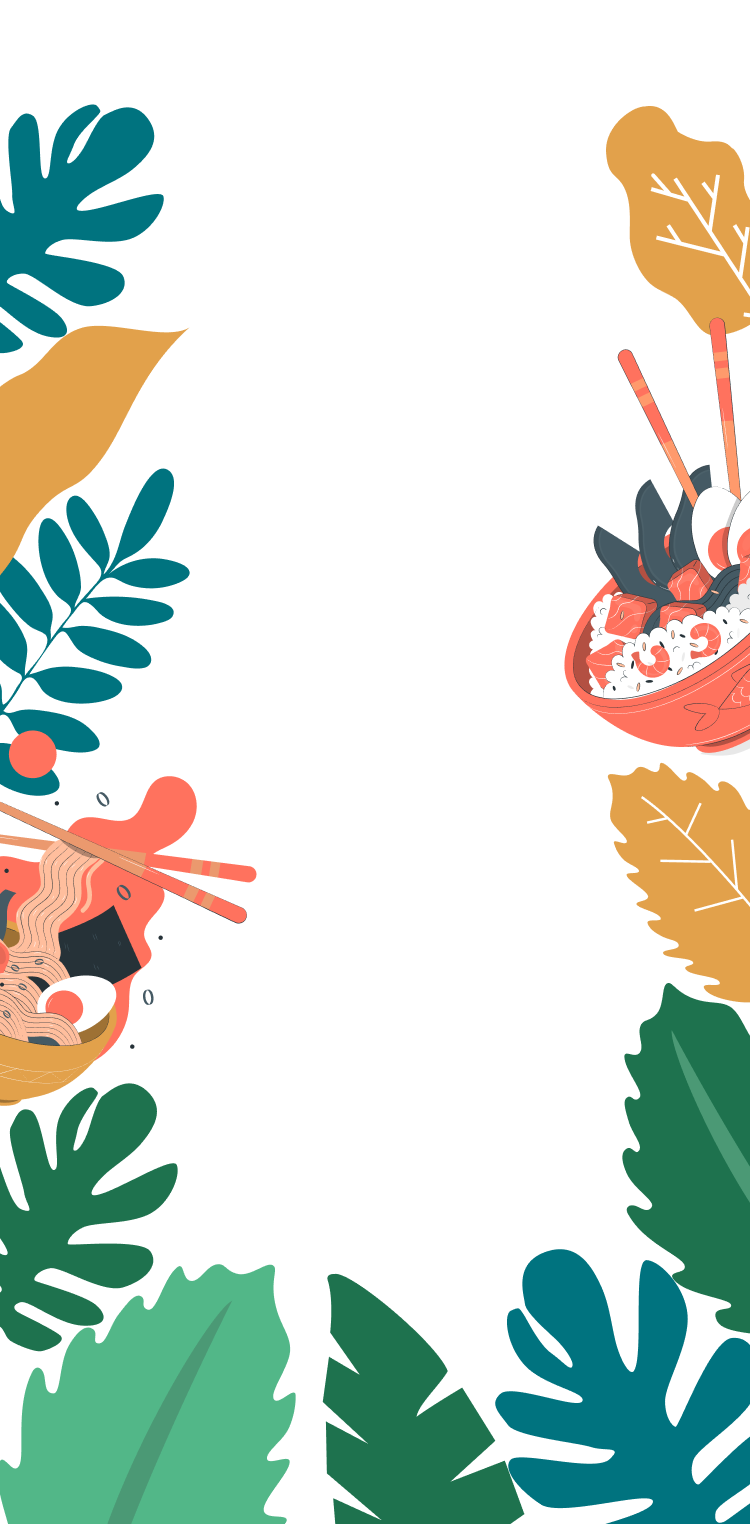
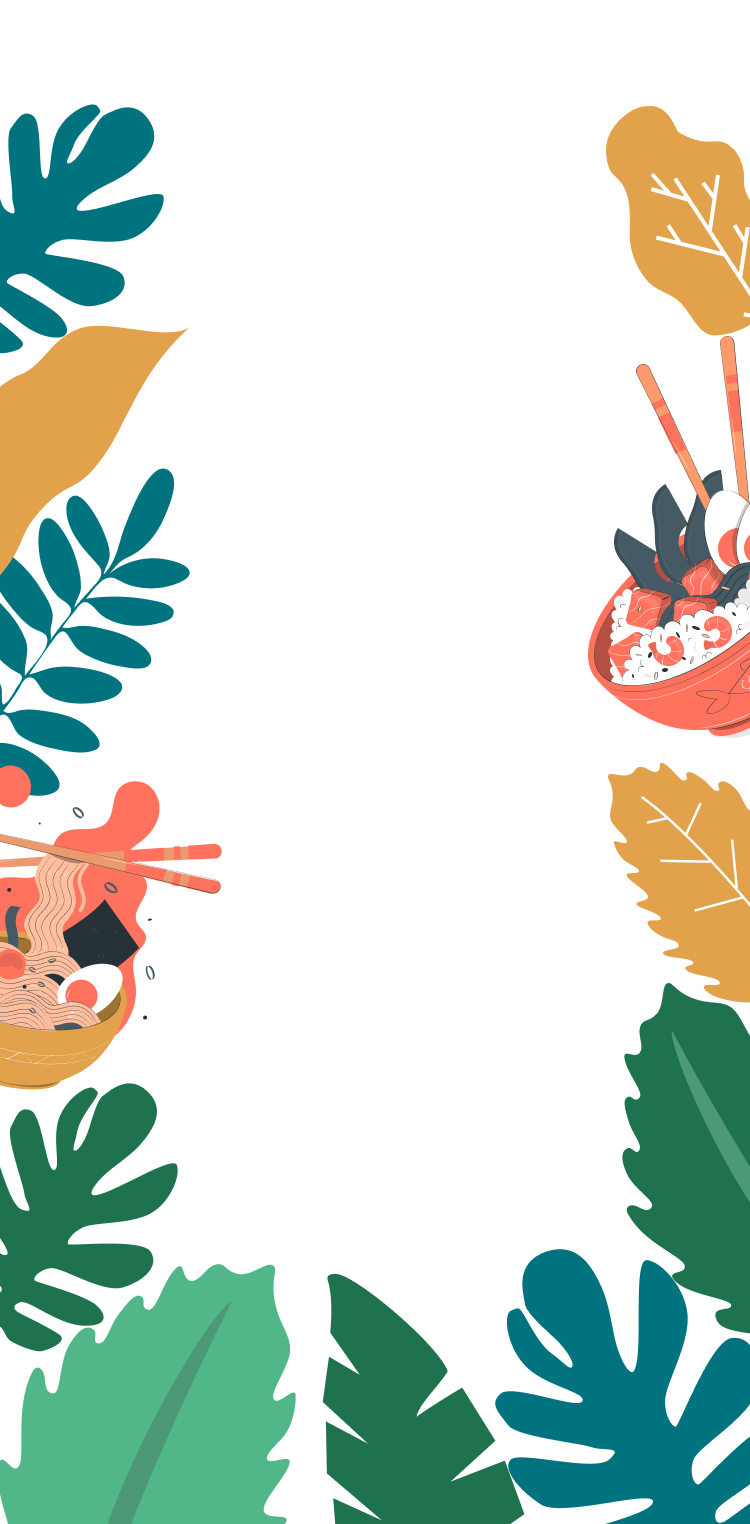
fix ui

Changed region(s): [[0.0, 0.4626, 0.3373, 0.7402], [0.736, 0.185, 1.0, 0.4934]]

diff --git a/dist/index.html b/dist/index.html
@@ -5,11 +5,10 @@
       html,
       body {
         height: 100%;
-      }</style><link href="/css/chunk-0c6216d0.08274b58.css" rel="prefetch"><link href="/css/chunk-1fae5497.dcda24b4.css" rel="prefetch"><link href="/css/chunk-26f60994.81c866d5.css" rel="prefetch"><link href="/css/chunk-3ca6fabd.6039e365.css" rel="prefetch"><link href="/css/chunk-505c7654.e7605092.css" rel="prefetch"><link href="/css/chunk-5782000f.d9c867a8.css" rel="prefetch"><link href="/css/chunk-a9f5bf16.97ca718d.css" rel="prefetch"><link href="/css/chunk-e372a31a.281dcce2.css" rel="prefetch"><link href="/js/chunk-0c6216d0.292e89c4.js" rel="prefetch"><link href="/js/chunk-1fae5497.27bdcaab.js" rel="prefetch"><link href="/js/chunk-26f60994.0d16c4c0.js" rel="prefetch"><link href="/js/chunk-3ca6fabd.a55c57ef.js" rel="prefetch"><link href="/js/chunk-505c7654.c82e5907.js" rel="prefetch"><link href="/js/chunk-5782000f.c48a206d.js" rel="prefetch"><link href="/js/chunk-a9f5bf16.01b83eda.js" rel="prefetch"><link href="/js/chunk-e372a31a.1b440c72.js" rel="prefetch"><link href="/css/app.090ea1bf.css" rel="preload" as="style"><link href="/css/chunk-vendors.beadc428.css" rel="preload" as="style"><link href="/js/app.0938b96c.js" rel="preload" as="script"><link href="/js/chunk-vendors.261810fb.js" rel="preload" as="script"><link href="/css/chunk-vendors.beadc428.css" rel="stylesheet"><link href="/css/app.090ea1bf.css" rel="stylesheet"></head><body><div id="app"></div><script src="/js/chunk-vendors.261810fb.js"></script><script src="/js/app.0938b96c.js"></script></body><script src="http://res.wx.qq.com/open/js/jweixin-1.0.0.js"></script><script>document.addEventListener(
+      }</style><link href="/css/chunk-10c1a249.2651adfd.css" rel="prefetch"><link href="/css/chunk-15613cb9.a9e28811.css" rel="prefetch"><link href="/css/chunk-323c8ba0.e775350d.css" rel="prefetch"><link href="/css/chunk-3ca6fabd.6039e365.css" rel="prefetch"><link href="/css/chunk-6f2687f2.bd6d9a83.css" rel="prefetch"><link href="/css/chunk-72e28bb8.22819d20.css" rel="prefetch"><link href="/css/chunk-7bf7424a.779b6feb.css" rel="prefetch"><link href="/css/chunk-839c34c2.c6875d8a.css" rel="prefetch"><link href="/js/chunk-10c1a249.a6d19b9d.js" rel="prefetch"><link href="/js/chunk-15613cb9.6d75619f.js" rel="prefetch"><link href="/js/chunk-323c8ba0.7e5ed98d.js" rel="prefetch"><link href="/js/chunk-3ca6fabd.a55c57ef.js" rel="prefetch"><link href="/js/chunk-6f2687f2.c31501e2.js" rel="prefetch"><link href="/js/chunk-72e28bb8.af185d0f.js" rel="prefetch"><link href="/js/chunk-7bf7424a.3f40d5e6.js" rel="prefetch"><link href="/js/chunk-839c34c2.faaa501a.js" rel="prefetch"><link href="/css/app.af027603.css" rel="preload" as="style"><link href="/css/chunk-vendors.beadc428.css" rel="preload" as="style"><link href="/js/app.584744df.js" rel="preload" as="script"><link href="/js/chunk-vendors.261810fb.js" rel="preload" as="script"><link href="/css/chunk-vendors.beadc428.css" rel="stylesheet"><link href="/css/app.af027603.css" rel="stylesheet"></head><body><div id="app"></div><script src="/js/chunk-vendors.261810fb.js"></script><script src="/js/app.584744df.js"></script></body><script src="https://res.wx.qq.com/open/js/jweixin-1.0.0.js"></script><script>document.addEventListener(
       "WeixinJSBridgeReady",
       function() {
         document.getElementById("music").play();
-        console.log(123);
       },
       false
     );</script></html>

diff --git a/src/views/Two.vue b/src/views/Two.vue
@@ -111,8 +111,9 @@ export default class Two extends Vue {
 }
 .leave_cover {
   position: absolute;
+  height: 100%;
   width: 100%;
-  bottom: -2vh;
+  bottom: 0vh;
   left: 50%;
   transform: translate(-50%);
   animation: leave 1s linear alternate;
@@ -153,7 +154,7 @@ export default class Two extends Vue {
   height: 50px;
   width: 214px;
   position: absolute;
-  top: 42%;
+  top: 44%;
   left: 48%;
   transform: translate(-50%, -50%);
 }
@@ -161,7 +162,7 @@ export default class Two extends Vue {
   height: 60px;
   width: 230px;
   position: absolute;
-  top: 52%;
+  top: 53%;
   left: 53%;
   transform: translate(-50%, -50%);
 }
@@ -169,7 +170,7 @@ export default class Two extends Vue {
   height: 50px;
   width: 240px;
   position: absolute;
-  top: 62%;
+  top: 64%;
   left: 48%;
   transform: translate(-50%, -50%);
 }
@@ -177,7 +178,7 @@ export default class Two extends Vue {
   height: 50px;
   width: 250px;
   position: absolute;
-  top: 72%;
+  top: 74%;
   left: 54%;
   transform: translate(-50%, -50%);
 }
@@ -186,7 +187,7 @@ export default class Two extends Vue {
   bottom: 14vh;
   left: 50%;
   transform: translateX(-50%);
-  height: 70px;
+  height: 64px;
   width: 100px;
 }
 </style>

diff --git a/src/views/Res.vue b/src/views/Res.vue
@@ -84,11 +84,8 @@ export default class Res extends Vue {
     newImg.src = `https://static2.pivotstudio.cn/2021-h5-questions/poster/${cMax}${pMax}${gender}.png`;
     newImg.onload = () => {
       // 图片加载成功后把地址给原来的img
-      let loadingtime = Math.random() * 3000 + 2000;
       this.url = newImg.src;
-      setTimeout(() => {
-        this.loading = false;
-      }, loadingtime);
+      this.loading = false;
     };
     window.addEventListener("beforeunload", this.leaveHandler);
   }

diff --git a/src/router/index.ts b/src/router/index.ts
@@ -74,6 +74,10 @@ const routes: Array<RouteConfig> = [
     // this generates a separate chunk (about.[hash].js) for this route
     // which is lazy-loaded when the route is visited.
     component: () => import('../views/Res.vue')
+  },
+  {
+    path: '*',
+    redirect: '/'
   }
 ]
 

diff --git a/src/views/Six.vue b/src/views/Six.vue
@@ -121,7 +121,7 @@ export default class Six extends Vue {
 .leave_cover {
   position: absolute;
   width: 100%;
-  bottom: 0;
+  bottom: -2vh;
   left: 50%;
   z-index: 2;
   pointer-events: none;

diff --git a/public/index.html b/public/index.html
@@ -36,7 +36,6 @@
       "WeixinJSBridgeReady",
       function() {
         document.getElementById("music").play();
-        console.log(123);
       },
       false
     );
